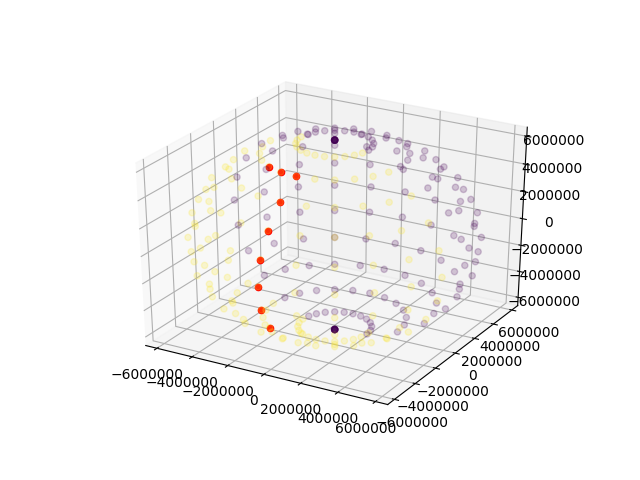
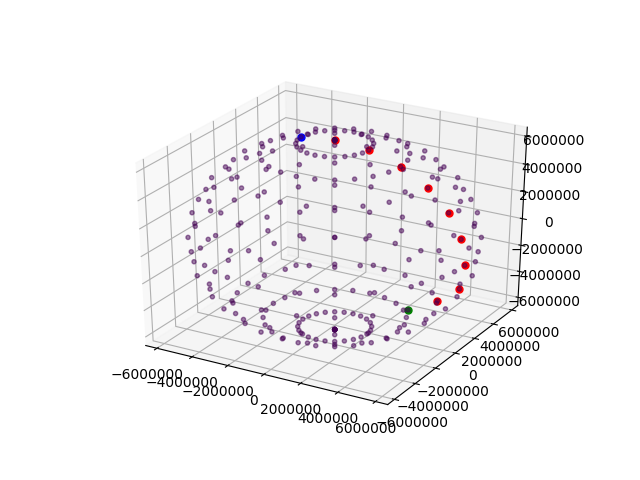
Generated 5 plots

diff --git a/sat_network.py b/sat_network.py
@@ -88,28 +88,35 @@ def initialize_constellation(alt, P, num_sats, inclination):
             sats[i].z = (alt + R)*(np.cos(phi)*np.cos(delta))
             i+=1
     return planes, sats, dir_sats
-def plot_constellation(sats, dir_sats):
+def plot_constellation(sats, dir_sats, num):
     coordinates = np.zeros((len(sats), 3))
     for i in range(len(sats)):
         coordinates[i,:] = [sats[i].x, sats[i].y, sats[i].z]
-    fig = plt.figure(0)
+    fig = plt.figure(num)
     ax = fig.gca(projection = '3d')
     ax.set_xlim3d(-R, R)
     ax.set_ylim3d(-R, R)
     ax.set_zlim3d(-R, R)
-    ax.scatter(coordinates[:,0],coordinates[:,1],coordinates[:,2], c = dir_sats, alpha = 0.2)
+    ax.scatter(coordinates[:,0],coordinates[:,1],coordinates[:,2], c = dir_sats, alpha = 0.5, s=3**2)
     return coordinates
 planes, sats, dir_sats = initialize_constellation(alt, P, num_sats, inclination)
-def plot_path(nodes_list, coords):
+def plot_path(nodes_list, coords, num):
+    i=0
+    len_nodes = len(nodes_list)
     for node in nodes_list:
         [p1, s1] = node 
         node_coords = coords[num_sats*p1 + s1, :]
-        fig = plt.figure(0)
+        fig = plt.figure(num)
         ax = fig.gca(projection = '3d') 
-        ax.scatter(node_coords[0], node_coords[1], node_coords[2], c = 'red')
+        if(i>0 and i!= len_nodes-1):
+            ax.scatter(node_coords[0], node_coords[1], node_coords[2], c = 'red', s=5**2)
+        elif(i!=len_nodes-1):
+            ax.scatter(node_coords[0], node_coords[1], node_coords[2], c = 'green', s=5**2)
+        else:
+            ax.scatter(node_coords[0], node_coords[1], node_coords[2], c = 'blue', s=5**2)
+        i+=1
     return 0
 print(inclination)
-coords = plot_constellation(sats, dir_sats)
 #plt.savefig("sat_constellation_vp.png")
 #plt.show()
 
@@ -225,37 +232,41 @@ def direction_enhancement(p1, s1, p2, s2):
 # add 4 buffers to satellites
 
 #testing routing
-np.random.seed(5)
-p1, p2 = np.random.randint(0, P, 2)
-s1, s2 = np.random.randint(0, num_sats, 2) 
-print(direction_estimation(11,20, 11, 8))
-print(s_to_lat(19), s_to_lat(8))
-print(f"testing ({p1} , {s1}) -> ({p2}, {s2})")
-pkt = packet(p1, s1, p2, s2, 0)
-i=0
-nodes_list = []
-while(pkt.p1 != p2 or pkt.s1 != s2):
-    path_enhanced = direction_enhancement(pkt.p1, pkt.s1, pkt.p2, pkt.s2)
-    print(path_enhanced)
-    if(path_enhanced.primary[0]):
-        pkt.p1 += path_enhanced.primary[0]
-        pkt.p1 = (pkt.p1 + P)%P
-        pkt.hops +=1
-    else:
-        if(pkt.s1 >= num_sats/2 or pkt.s1 ==0):
-            pkt.s1 -= path_enhanced.primary[1]
-            pkt.s1 = (pkt.s1 + num_sats)%num_sats
+for j in range(5):
+    np.random.seed(14+j)
+    coords = plot_constellation(sats, dir_sats, j)
+    p1, p2 = np.random.randint(0, P, 2)
+    s1, s2 = np.random.randint(0, num_sats, 2) 
+    print(direction_estimation(11,20, 11, 8))
+    print(s_to_lat(19), s_to_lat(8))
+    print(f"testing ({p1} , {s1}) -> ({p2}, {s2})")
+    pkt = packet(p1, s1, p2, s2, 0)
+    i=0
+    nodes_list = []
+    while(pkt.p1 != p2 or pkt.s1 != s2):
+        path_enhanced = direction_enhancement(pkt.p1, pkt.s1, pkt.p2, pkt.s2)
+        print(path_enhanced)
+        if(path_enhanced.primary[0]):
+            pkt.p1 += path_enhanced.primary[0]
+            if(pkt.p1 == P):
+                pkt.s1 = (num_sats - s1)
+            pkt.p1 = (pkt.p1 + P)%P
             pkt.hops +=1
-        else :
-            pkt.s1 -= path_enhanced.primary[1]
-            pkt.s1 = (pkt.s1 + num_sats)%num_sats
-            pkt.hops +=1
-    print(pkt)
-    node = [pkt.p1, pkt.s1]
-    nodes_list.append(node)
-plot_path(nodes_list, coords=coords)
-plt.savefig("path_routed.png")
-plt.show()
-## Routing works!!
+        else:
+            if(pkt.s1 >= num_sats/2 or pkt.s1 ==0):
+                pkt.s1 -= path_enhanced.primary[1]
+                pkt.s1 = (pkt.s1 + num_sats)%num_sats
+                pkt.hops +=1
+            else :
+                pkt.s1 -= path_enhanced.primary[1]
+                pkt.s1 = (pkt.s1 + num_sats)%num_sats
+                pkt.hops +=1
+        print(pkt)
+        node = [pkt.p1, pkt.s1]
+        nodes_list.append(node)
+    plot_path(nodes_list, coords=coords, num=j)
+    plt.savefig(f"path_routed_{j}.png")
+    print(j)
+# Routing works!!
 
     
